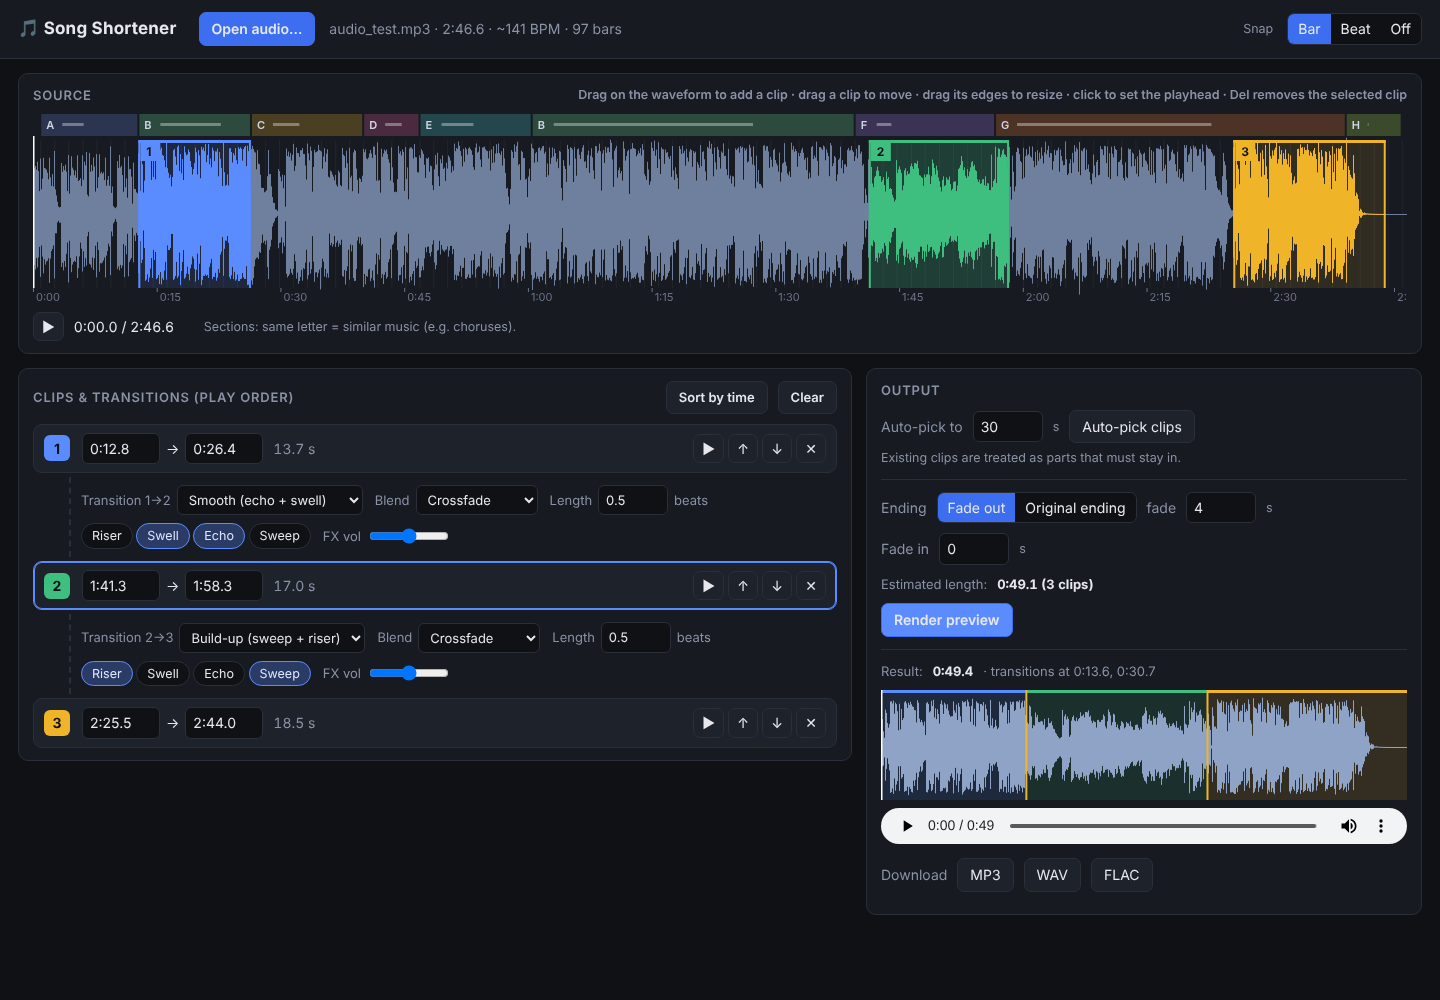
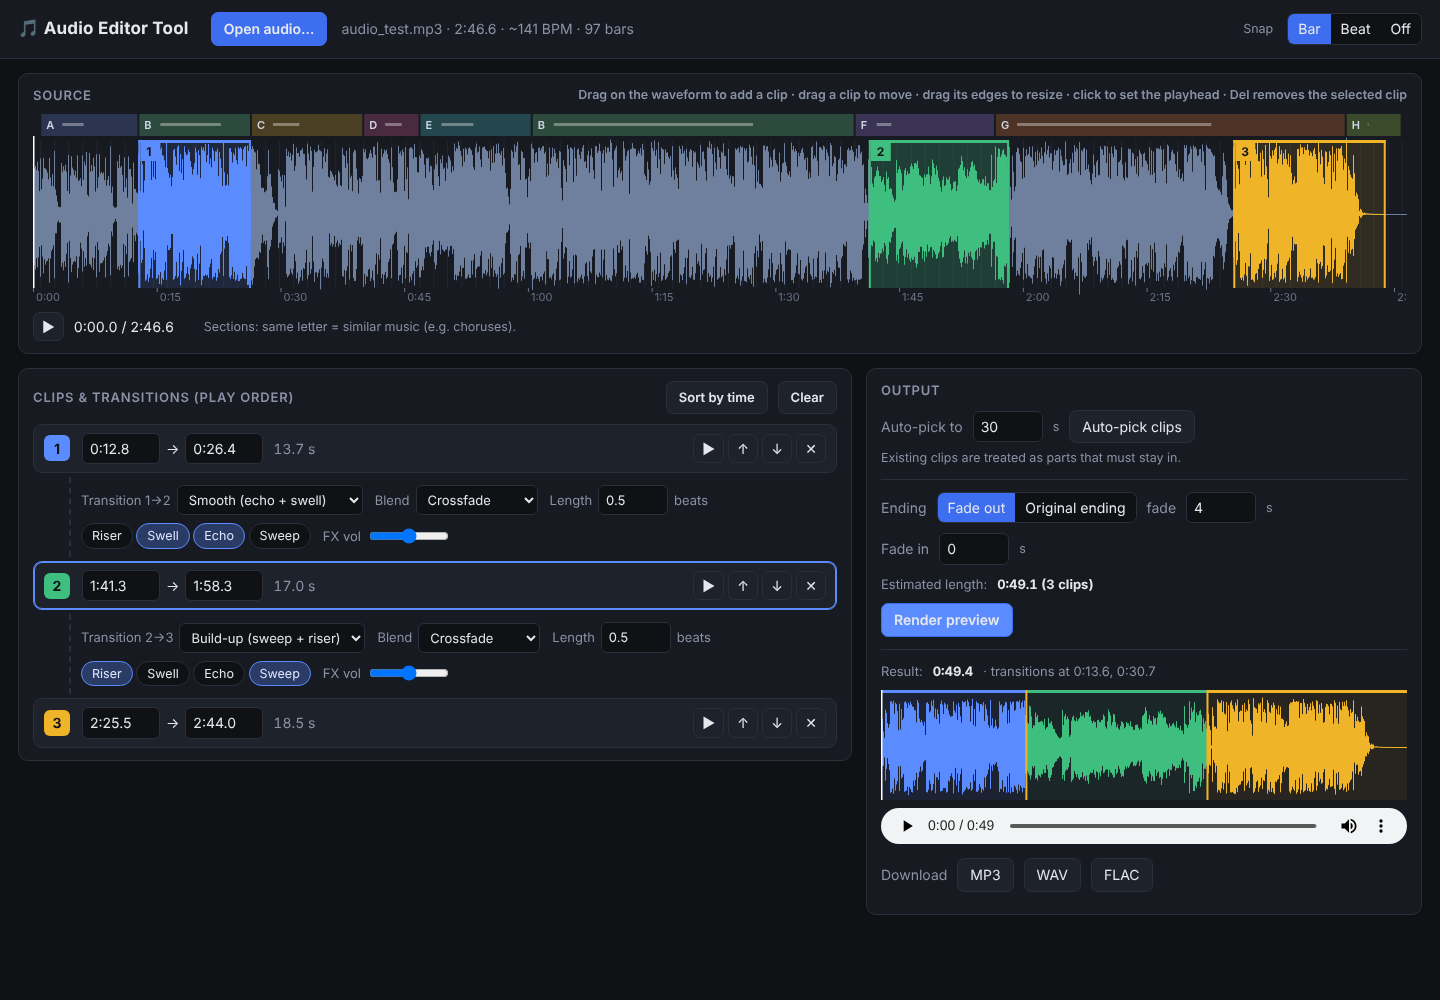
Rename project to audio-editor-tool
Claude-Session: https://claude.ai/code/session_01AsD94t9TnFLnfhfxvezy38

Changed region(s): [[0.5938, 0.682, 0.9688, 0.806], [0.2188, 0.0, 0.4375, 0.062], [0.0312, 0.0, 0.1875, 0.062]]

diff --git a/src/audio_editor_tool/web/index.html b/src/audio_editor_tool/web/index.html
@@ -3,7 +3,7 @@
 <head>
 <meta charset="utf-8">
 <meta name="viewport" content="width=device-width, initial-scale=1">
-<title>Song Shortener</title>
+<title>Audio Editor Tool</title>
 <style>
   :root {
     --bg: #0f1115; --panel: #171a21; --panel2: #1e222b; --line: #2a2f3a;
@@ -81,7 +81,7 @@
 </head>
 <body>
 <header>
-  <h1>🎵 Song Shortener</h1>
+  <h1>🎵 Audio Editor Tool</h1>
   <button class="primary" id="openBtn">Open audio…</button>
   <input type="file" id="file" accept="audio/*,.mp3,.wav,.flac,.ogg,.m4a" hidden>
   <div class="info" id="info">No song loaded</div>

diff --git a/src/audio_editor_tool/gui.py b/src/audio_editor_tool/gui.py
@@ -1,6 +1,6 @@
 """Visual editor: a local web app that opens in its own window.
 
-Run `song-shortener-gui`. Everything stays on your computer; the server only
+Run `audio-editor-tool-gui`. Everything stays on your computer; the server only
 listens on 127.0.0.1.
 """
 
@@ -26,7 +26,7 @@ import numpy as np
 
 from . import audio_io
 
-WORKDIR = Path(tempfile.mkdtemp(prefix="song-shortener-"))
+WORKDIR = Path(tempfile.mkdtemp(prefix="audio-editor-tool-"))
 SONGS: dict[str, dict] = {}
 RESULTS: dict[str, dict] = {}
 LOCK = threading.Lock()
@@ -156,7 +156,7 @@ class Handler(BaseHTTPRequestHandler):
     def do_GET(self):
         url = urlparse(self.path)
         if url.path in ("/", "/index.html"):
-            html = resources.files("song_shortener").joinpath("web/index.html").read_bytes()
+            html = resources.files("audio_editor_tool").joinpath("web/index.html").read_bytes()
             return self._send(html, "text/html; charset=utf-8")
         if url.path.startswith("/api/result/"):
             rid = url.path.rsplit("/", 1)[-1]
@@ -224,14 +224,14 @@ def _open_window(url: str) -> None:
 
 
 def main(argv: list[str] | None = None) -> int:
-    ap = argparse.ArgumentParser(prog="song-shortener-gui", description="Open the visual editor.")
+    ap = argparse.ArgumentParser(prog="audio-editor-tool-gui", description="Open the visual editor.")
     ap.add_argument("--port", type=int, default=8765)
     ap.add_argument("--no-window", action="store_true", help="don't open a window, just serve")
     args = ap.parse_args(argv)
 
     server = ThreadingHTTPServer(("127.0.0.1", args.port), Handler)
     url = f"http://127.0.0.1:{server.server_address[1]}/"
-    print(f"Song Shortener editor running at {url}  (Ctrl+C to quit)")
+    print(f"Audio Editor Tool running at {url}  (Ctrl+C to quit)")
     if not args.no_window:
         threading.Timer(0.5, _open_window, args=(url,)).start()
     try:

diff --git a/tests/test_audio_editor_tool.py b/tests/test_audio_editor_tool.py
@@ -9,11 +9,11 @@ from pathlib import Path
 import numpy as np
 import pytest
 
-from song_shortener import audio_io
-from song_shortener.analysis import analyze, sections
-from song_shortener.cli import main as cli_main, parse_range, parse_time
-from song_shortener.planner import Settings, plan
-from song_shortener.render import Transition, render_parts, segment_times
+from audio_editor_tool import audio_io
+from audio_editor_tool.analysis import analyze, sections
+from audio_editor_tool.cli import main as cli_main, parse_range, parse_time
+from audio_editor_tool.planner import Settings, plan
+from audio_editor_tool.render import Transition, render_parts, segment_times
 
 ROOT = Path(__file__).resolve().parents[1]
 
@@ -80,7 +80,7 @@ def test_cli_writes_output(demo, tmp_path):
 
 def test_gui_server_round_trip(demo):
     from http.server import ThreadingHTTPServer
-    from song_shortener import gui
+    from audio_editor_tool import gui
 
     path, *_ = demo
     server = ThreadingHTTPServer(("127.0.0.1", 0), gui.Handler)
@@ -92,7 +92,7 @@ def test_gui_server_round_trip(demo):
         return json.load(urllib.request.urlopen(req))
 
     try:
-        assert b"Song Shortener" in urllib.request.urlopen(base + "/").read()
+        assert b"Audio Editor Tool" in urllib.request.urlopen(base + "/").read()
         song = post("/api/load", path.read_bytes(), {"X-Filename": "demo.wav"})
         assert song["sections"] and song["peaks"]
         body = json.dumps({"id": song["id"], "clips": [[7.9, 23.6], [55.1, 70.8], [86.6, 102.3]],

diff --git a/src/audio_editor_tool/cli.py b/src/audio_editor_tool/cli.py
@@ -39,7 +39,7 @@ def fmt(t: float) -> str:
 
 def main(argv: list[str] | None = None) -> int:
     ap = argparse.ArgumentParser(
-        prog="song-shortener",
+        prog="audio-editor-tool",
         description="Make a shorter edit of a song with smooth, beat-matched transitions.",
     )
     ap.add_argument("input", help="audio file (mp3, wav, flac, m4a, ...)")

diff --git a/README.md b/README.md
@@ -1,4 +1,4 @@
-# Song Shortener
+# Audio Editor Tool
 
 Make short edits of a song with smooth, beat-matched transitions. Pick the parts you want in a visual editor (or let the tool pick them for a target length). It joins them on the beat with crossfades and DJ-style transition effects.
 
@@ -13,15 +13,15 @@ Requirements:
 - [ffmpeg](https://ffmpeg.org/download.html) (optional) to read and export MP3/M4A. WAV, FLAC and OGG work without it.
 
 ```bash
-git clone https://github.com/<your-user>/song-shortener.git
-cd song-shortener
+git clone https://github.com/oskarsselis/audio-editor-tool.git
+cd audio-editor-tool
 uv sync
 ```
 
 ## Editor window
 
 ```bash
-uv run song-shortener-gui
+uv run audio-editor-tool-gui
 ```
 
 This opens the editor in its own window. It uses Chrome/Edge app mode if one is installed, and otherwise your default browser. Everything runs locally on your computer.
@@ -48,19 +48,19 @@ This opens the editor in its own window. It uses Chrome/Edge app mode if one is 
 
 ```bash
 # ~1:30 version, chosen automatically
-uv run song-shortener song.mp3 -l 1:30
+uv run audio-editor-tool song.mp3 -l 1:30
 
 # Must include 1:05–1:40, leave out 2:10–2:30
-uv run song-shortener song.mp3 -l 2:00 -k 1:05-1:40 -s 2:10-2:30 -o edit.mp3
+uv run audio-editor-tool song.mp3 -l 2:00 -k 1:05-1:40 -s 2:10-2:30 -o edit.mp3
 
 # Your own parts, with echo + swell at the joins and a fade-out
-uv run song-shortener song.mp3 -p 1:41-1:58,2:25-2:44 --fx echo,swell --end fade
+uv run audio-editor-tool song.mp3 -p 1:41-1:58,2:25-2:44 --fx echo,swell --end fade
 
 # Show the section map
-uv run song-shortener song.mp3 --analyze
+uv run audio-editor-tool song.mp3 --analyze
 ```
 
-Run `uv run song-shortener --help` for all options: `--blend crossfade|eq|overlay`, `--xfade BEATS`, `--fx riser,swell,echo,sweep`, `--start`, `--end`, `--snap`, `--fade-out`, `--tolerance`, `--plan-json` and more.
+Run `uv run audio-editor-tool --help` for all options: `--blend crossfade|eq|overlay`, `--xfade BEATS`, `--fx riser,swell,echo,sweep`, `--start`, `--end`, `--snap`, `--fade-out`, `--tolerance`, `--plan-json` and more.
 
 ## How it works
 
@@ -72,7 +72,7 @@ Run `uv run song-shortener --help` for all options: `--blend crossfade|eq|overla
 ## Project layout
 
 ```
-src/song_shortener/
+src/audio_editor_tool/
   analysis.py   beats, bars, similarity, sections
   planner.py    automatic clip selection
   render.py     joining clips, blends, limiter
